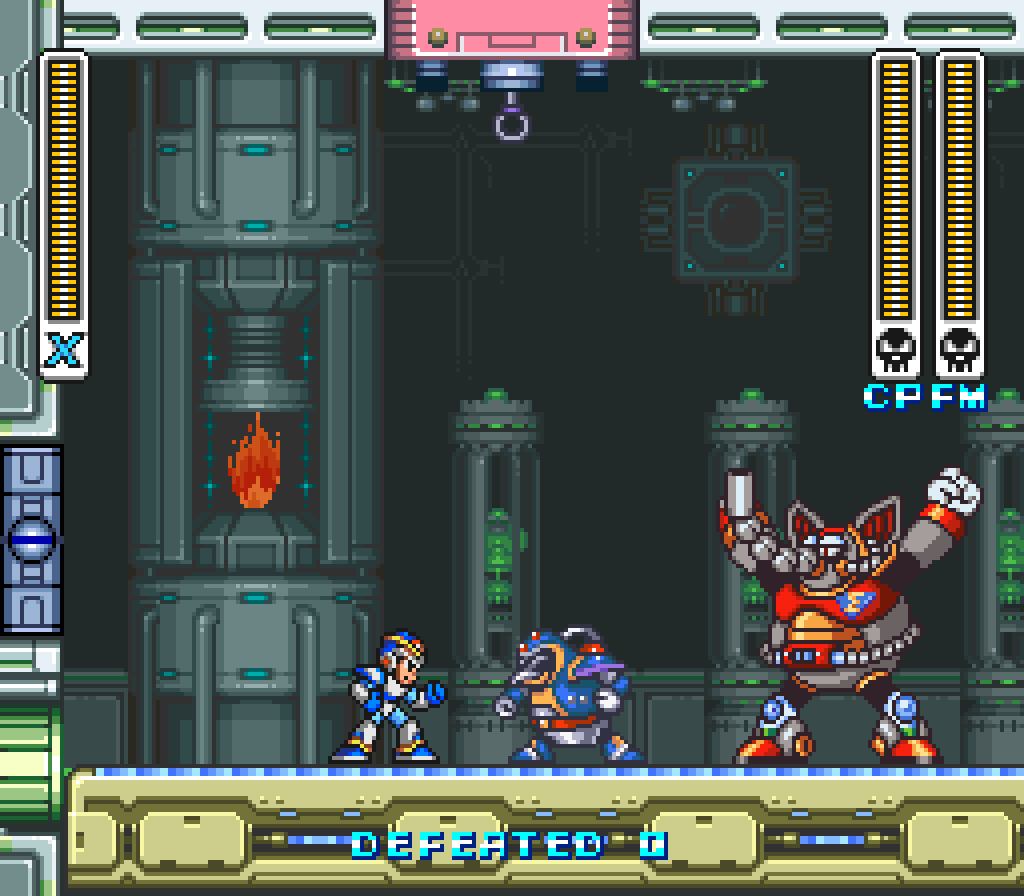
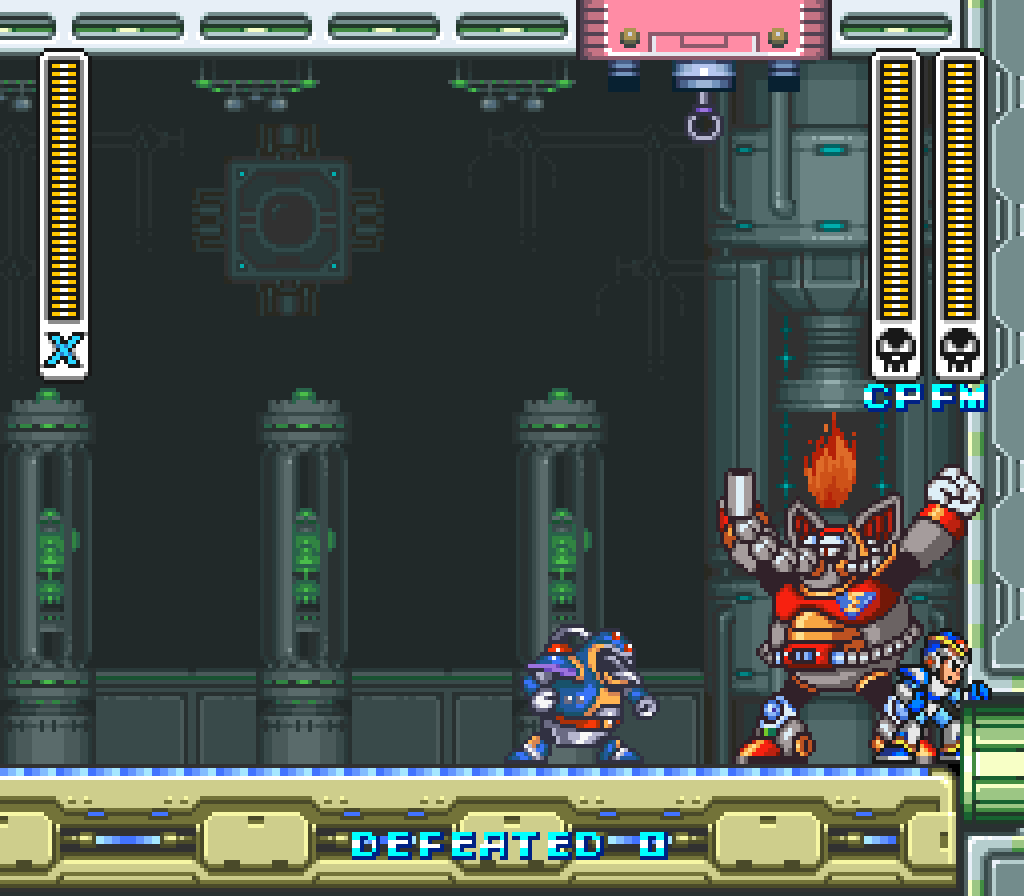
Restore Mammoth arena scrolling and start Boss Rush at the right edge

diff --git a/src/mmx_boss_rush_runtime.c b/src/mmx_boss_rush_runtime.c
@@ -29,7 +29,10 @@ static unsigned stack_pop(CpuState *cpu,unsigned bytes) {
   return v;
 }
 static bool arena_ready(const uint8_t *r) {
-  return word(r+0x1e4d)==0x1e00 && word(r+0xbad)>=0x1e20 &&
+  /* Reach the expanded room's right side before requesting music and
+   * releasing either boss seat. */
+  unsigned right=r[0x1f7a]==4?0x1e00+MMX_RUSH_MAMMOTH_SCROLL+208:0x1e20;
+  return word(r+0x1e4d)>=0x1e00 && word(r+0xbad)>=right &&
       r[0xbaa]!=0x1a && r[0xbaa]!=0x18 && !r[0xc16];
 }
 /* These are scene/camera flags, not inventory or player combat state. Native
@@ -175,6 +178,21 @@ static void boss_hook(CpuState *cpu,uint32_t pc) {
     if(end) {interp_bridge_pre_opcode_redirect((pc&0xff0000)|end);return;}
   }
   if(owner<0) return;
+  if(g_ram[0x1f7a]==4 && s.bosses[owner].id==0) {
+    /* Move the native handle constructor and both body approach/landing
+     * calculations together. Each hook follows the original 16-bit load or
+     * add; subsequent native comparisons/motion still use the same target.
+     * Never change the shared camera or Penguin's other attack boundaries. */
+    bool body=s.bosses[owner].object==cpu->D;
+    if((body && (at==0x01b7bf || at==0x01b81b)) ||
+        (!body && at==0x07efd2 && g_ram[cpu->D+10]==0x12)) {
+      unsigned origin=s.camera_x+MMX_RUSH_MAMMOTH_SCROLL+MMX_RUSH_HOOK_SCREEN_X-128;
+      unsigned value=at==0x01b81b?cpu->A-word(g_ram+0x1e60)+origin:origin;
+      cpu->A=(uint16_t)value;cpu->_flag_Z=!cpu->A;cpu->_flag_N=cpu->A>>15;
+      cpu->P=(cpu->P&~0x82u)|(cpu->_flag_Z?2:0)|(cpu->_flag_N?128:0);
+      return;
+    }
+  }
   if(at==0x028297 || at==0x02829d || at==0x03b192) {
     /* $82:827D initializes OBJ metadata from the current stage's $7F
      * allocation tables. Cross-stage bodies otherwise save palette zero
@@ -222,10 +240,13 @@ static void boss_hook(CpuState *cpu,uint32_t pc) {
   }
   if(s.bosses[owner].id==7 && s.bosses[owner].phase==MMX_RUSH_ENTERING) {
     if(at==0x079258) {
-      put(g_ram+cpu->D+5,s.camera_x+144);put(g_ram+cpu->D+8,s.camera_y+160);
+      /* The room has already been opened for every pair. His stock intro
+       * must not add $70 again to its private movement boundary. */
+      if(g_ram[0x1f7a]==4) put(g_ram+0x1e60,s.camera_x+MMX_RUSH_MAMMOTH_SCROLL);
+      put(g_ram+cpu->D+5,word(g_ram+0x1e4d)+144);put(g_ram+cpu->D+8,s.camera_y+160);
     }
     /* The factory waits for a player to walk under the entrance platform.
-     * In this fixed room the arrival starts independently of that distance. */
+     * Rush starts his arrival on the visible screen after the run trigger. */
     if(at==0x079276) {
       interp_bridge_pre_opcode_redirect((pc&0xff0000)|0x9281);return;
     }
@@ -276,7 +297,7 @@ void MmxBossRushHostFrame(void) {
   const unsigned bosses[]={0x849feb,0x84a003,0x84aadd,0x84a677,0x849b03,0x849b43,
     0x848fca,0x848fad,0x9ac7,0xdc36,0xdd47,0xd1ed,0x94d9,0x8c56,0xe68e,0x879258,0x879276,0x8088d6,0x849f19,0x849f2a,0x849f2f,0x849f7e,
     0x8885b5,0x888dab,0x888e0f,0x888d79,0x888d2f,0x888d5e,0x88876a,0x828297,0x82829d,0x83b192,
-    0x8498ff,0x84990d};
+    0x8498ff,0x84990d,0x81b7bf,0x81b81b,0x87efd2};
   for(unsigned i=0;i<sizeof(bosses)/sizeof(*bosses);++i)
     registered&=interp_bridge_add_pre_opcode_hook(bosses[i],boss_hook);
   static bool warned;
@@ -358,6 +379,14 @@ static void camera(uint8_t *r) {
    * preserve the native zero origin from the first clear through its fades. */
   if(!word(r+0x1e4d) || !MmxWidePolicy_IsStageScene(r)) return;
   MmxBossRushState s=MmxBossRushGetState();
+  if(r[0x1f7a]==4) {
+    /* The door first locks one screen; Mammoth's stock intro normally opens
+     * the extra $70. Do that for every pair after the door releases, retaining
+     * the native gradual boundary update, player follow and menu restoration. */
+    if(word(r+0x1e4d)<s.camera_x || r[0xbaa]==0x18 || r[0xbaa]==0x1a || r[0xc16]) return;
+    put(r+0x1e5e,s.camera_x);put(r+0x1e60,s.camera_x+MMX_RUSH_MAMMOTH_SCROLL);
+    return;
+  }
   put(r+0x1e4d,s.camera_x);put(r+0x1e50,s.camera_y);
   put(r+0x1e56,s.camera_x);put(r+0x1e58,s.camera_x);
   put(r+0x1e5a,s.camera_y);put(r+0x1e5c,s.camera_y);
@@ -412,7 +441,7 @@ void MmxBossRushFrame(uint8_t *r,uint16_t input) {
         r[0xbaa]!=14 && !r[0xc0c] && !r[0xc16]) prepare(r);
     return;
   }
-  if(s.mode==MMX_RUSH_PREPARING) return;
+  if(s.mode==MMX_RUSH_PREPARING) {camera(r);return;}
   camera(r);
   if(r[0xd3]==4 && !r[0x1f19] && !MmxWeaponsMenuVisible(r) && !MmxCoopGetState().menu_owner) {
     for(unsigned i=0;i<2;++i) {
@@ -441,7 +470,7 @@ void MmxBossRushFrame(uint8_t *r,uint16_t input) {
           s.bosses[i].globals[n]=r[globals[n]];
         MmxBossRushSetState(&s);
         memset(r+object,0,64);r[object]=0x81;r[object+10]=kMmxBossRushBosses[id].kind;
-        unsigned x=s.camera_x+144+i*48,y=s.camera_y+(id==4?43:96);
+        unsigned x=word(r+0x1e4d)+144+i*48,y=s.camera_y+(id==4?43:96);
         put(r+object+5,x);put(r+object+8,y);put(r+object+0x22,x);put(r+object+0x24,y);
       }
     }

diff --git a/src/mmx_renderer.c b/src/mmx_renderer.c
@@ -927,7 +927,8 @@ static uint16_t background(const Ppu *p, const Raster *r, unsigned layer, int x,
   static const unsigned low[] = {8, 7, 1}, high[] = {12, 11, 3};
   if(stage && layer==0 && frame.ram[0x1f7a]==4 &&
       (frame_rush.mode==MMX_RUSH_PLAYING || frame_rush.mode==MMX_RUSH_PREPARING)) {
-    int sx=x+view_camera(frame.ram,0x1e4d)-(int)frame_rush.camera_x-96;
+    int hook_x=frame_rush.camera_x+MMX_RUSH_MAMMOTH_SCROLL+MMX_RUSH_HOOK_SCREEN_X;
+    int sx=x+view_camera(frame.ram,0x1e4d)-hook_x+32;
     int sy=y+view_camera(frame.ram,0x1e50)-(int)frame_rush.camera_y;
     int pixel=MmxRenderAssetsRushCeilingPixel((unsigned)sx,(unsigned)sy);
     if(pixel>=0) {
@@ -2238,7 +2239,14 @@ bool MmxRendererDraw(uint32_t *out, MmxRenderView view, bool hud) {
   }
   for (unsigned i = 0; i < frame_debug_rect_count; ++i)
     draw_debug_rect(out, view, &frame_debug_rects[i]);
-  if(stage) MmxBossRushDraw(out,view.width,view.extra,&frame_rush);
+  if(stage) {
+    MmxBossRushState draw_rush=frame_rush;
+    for(unsigned i=0;i<2;++i) {
+      draw_rush.bosses[i].death_x-=view_camera(frame.ram,0x1e4d)-frame_rush.camera_x;
+      draw_rush.bosses[i].death_y-=view_camera(frame.ram,0x1e50)-frame_rush.camera_y;
+    }
+    MmxBossRushDraw(out,view.width,view.extra,&draw_rush);
+  }
   if(rush_hud && frame_rush.mode==MMX_RUSH_PLAYING) {
     char count[32];snprintf(count,sizeof(count),"DEFEATED %u",frame_rush.defeated);
     rush_native_text(out,view,view.width/2-(int)strlen(count)*4,208,count,7);

diff --git a/src/mmx_boss_rush.h b/src/mmx_boss_rush.h
@@ -7,6 +7,9 @@ enum { MMX_RUSH_OFF, MMX_RUSH_LOADING, MMX_RUSH_PLAYING, MMX_RUSH_FINISHED,
   MMX_RUSH_PREPARING };
 enum { MMX_RUSH_EMPTY, MMX_RUSH_ENTERING, MMX_RUSH_FIGHTING, MMX_RUSH_DYING };
 enum { MMX_RUSH_NOT_LOADED, MMX_RUSH_ARENA_LOADED, MMX_RUSH_MUSIC_PENDING };
+/* $87:9252 opens Mammoth's camera another $70 pixels. Keep that full room
+ * for every pair; the graft's right edge leaves 48 pixels for the boss HUD. */
+enum { MMX_RUSH_MAMMOTH_SCROLL=0x70, MMX_RUSH_HOOK_SCREEN_X=176 };
 typedef struct MmxBossRushBoss {
   uint16_t object, ticks;
   uint8_t id, phase, health, reserved;

diff --git a/tools/apply_boss_rush_hooks.py b/tools/apply_boss_rush_hooks.py
@@ -16,7 +16,7 @@ TARGETS = {0x01b516, 0x078a7e, 0x01c433, 0x03b144, 0x0791a7,
            0x048fca, 0x048f52, 0x048f7d, 0x00e68e, 0x00dcdb,
            0x0088a2, 0x0088cd, 0x049f19, 0x049f2a, 0x049f2f, 0x049f7e,
            0x088dab, 0x088e0f, 0x088d79, 0x088d2f, 0x02827d, 0x03b151,
-           0x0498fa, 0x049908}
+           0x0498fa, 0x049908, 0x07efa5, 0x01b7a7, 0x01b7eb}
 # The USA dispatch has no compiled body for these entries. They already
 # execute in LLE; every other boundary must be routed by this pass.
 INTERPRETED = {0x0094d1, 0x00d345, 0x00d4ea, 0x00d507, 0x00d1ed}

diff --git a/docs/boss-rush.md b/docs/boss-rush.md
@@ -31,14 +31,23 @@ Native title entry:
 
 ![Boss Rush selected on the native title menu](screenshots/boss-rush-title.png)
 
+The empty room remains available for preparation after entering the final door;
+the player walks to its right edge to begin:
+
+![Left side of the empty Mammoth chamber](screenshots/boss-rush-mammoth-preparation.png)
+
 Penguin and Mammoth in the factory arena, with Penguin's original ceiling mount
-and handle at the top center:
+and handle near the right wall:
 
 ![Mammoth arena with Penguin's ceiling mount and native boss meters](screenshots/boss-rush-mammoth-arena.png)
 
 The same arena in local co-op:
 
 ![X and Zero facing Penguin and Mammoth](screenshots/boss-rush-mammoth-coop.png)
+
+Penguin reaches and pulls his relocated native handle:
+
+![Penguin grabbing the handle near the right wall](screenshots/boss-rush-penguin-hook.png)
 
 Native font, final count, persistent high score and retry choices:
 
@@ -86,19 +95,24 @@ boss's child actors belong to its encounter; cleanup preserves the other
 boss, its children, and both players' projectiles.
 
 The run loads Flame Mammoth's last native checkpoint in the final door corridor.
-Players can prepare weapons there; crossing the door scrolls into the
-boss room and starts the encounter and boss music. Door, checkpoint and
+Players can prepare weapons there or inside the empty room. Crossing the door
+opens the full Mammoth chamber; reaching its far-right side starts both boss
+entrances and the battle music. Door, checkpoint and
 camera events remain active during preparation; stock stage enemies are
 filtered before allocation. Because Rush bypasses the stock boss's shared
 player intro, the encounter requests battle song `$1E` through the native dispatcher
-after the door releases; it uploads the SPC bank and supports the existing
+at the right-edge trigger; it uploads the SPC bank and supports the existing
 MSU1 hook. The call stays inside the guest scheduler so an upload can yield
 across frames. Its saved registers live on the guest stack and its pending
 return is snapshot-owned, with the existing state layout preserved.
 This matches Chill Penguin's health-fill controller at `$81:B617`; `$21`
 is the victory song and must not be used for the encounter.
 The room retains native scenery,
-metatile collision data and its fixed camera. Kuwanger
+metatile collision data and native scrolling camera. The room is 368 pixels wide:
+Mammoth's original `$87:9252` camera extension adds 112 pixels beyond the first
+screen. Rush opens that same range for every pair after the door releases,
+keeping the native gradual limits and player follow. The trigger is 48 pixels
+from the right wall. Replacements enter on the current screen. Kuwanger
 starts higher to finish his native downward entrance above that floor. Mammoth
 uses a fixed arrival position and bypasses the factory's player-distance gate;
 his native entrance animation and health-fill states still run.
@@ -108,8 +122,11 @@ it stationary. All eight X1 weapons and four shared Sub Tanks start full.
 
 Penguin's ceiling mount is reconstructed from his original room's layout,
 metatiles, graphics resource and palettes at ROM load. It draws at the top
-center without replacing the factory's VRAM or collision. His original handle
-child actor still spawns and animates with Penguin, then leaves with his encounter.
+right side without replacing the factory's VRAM or collision. Its right edge
+leaves 48 pixels before the wall, clear of the boss meters on the final screen.
+His original handle child actor and native jump/landing targets share the same
+world position, so scrolling cannot detach the handle from the mount. The handle
+still animates with Penguin and leaves with his encounter.
 
 The title entry uses the native BG3 font and selection palettes. Navigation
 wraps through all four rows with Up, Down or Select. Returning through Main Menu
